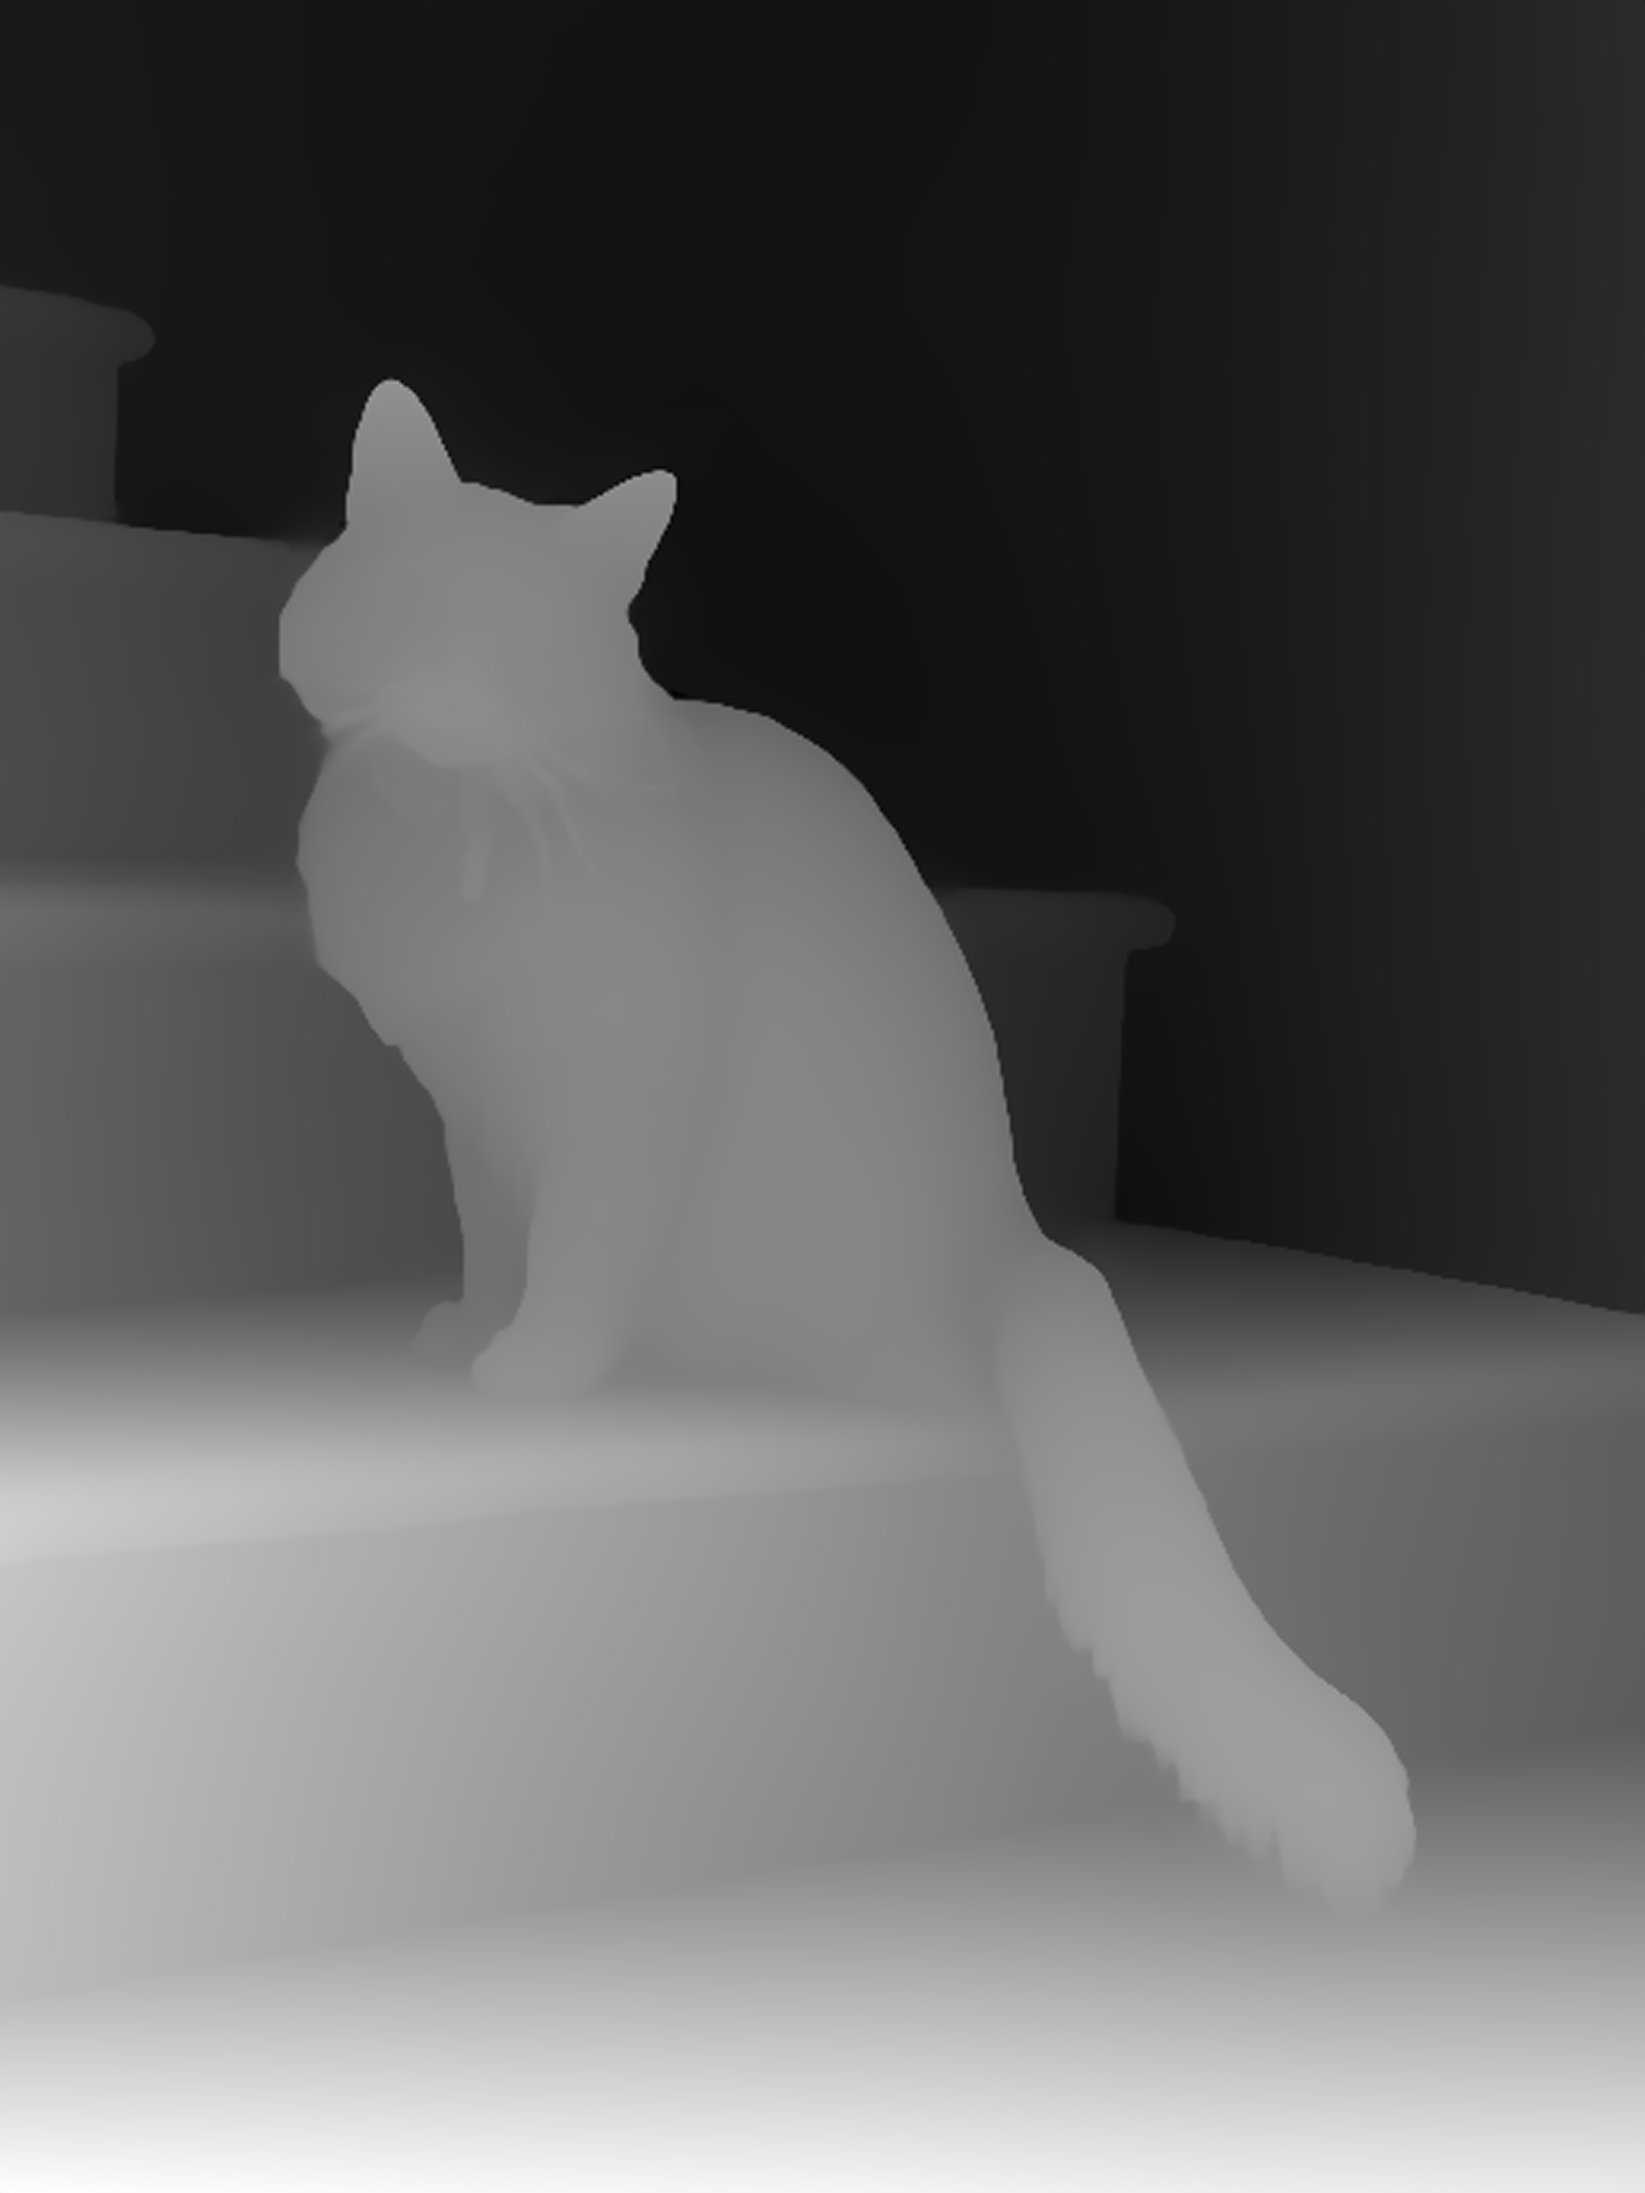
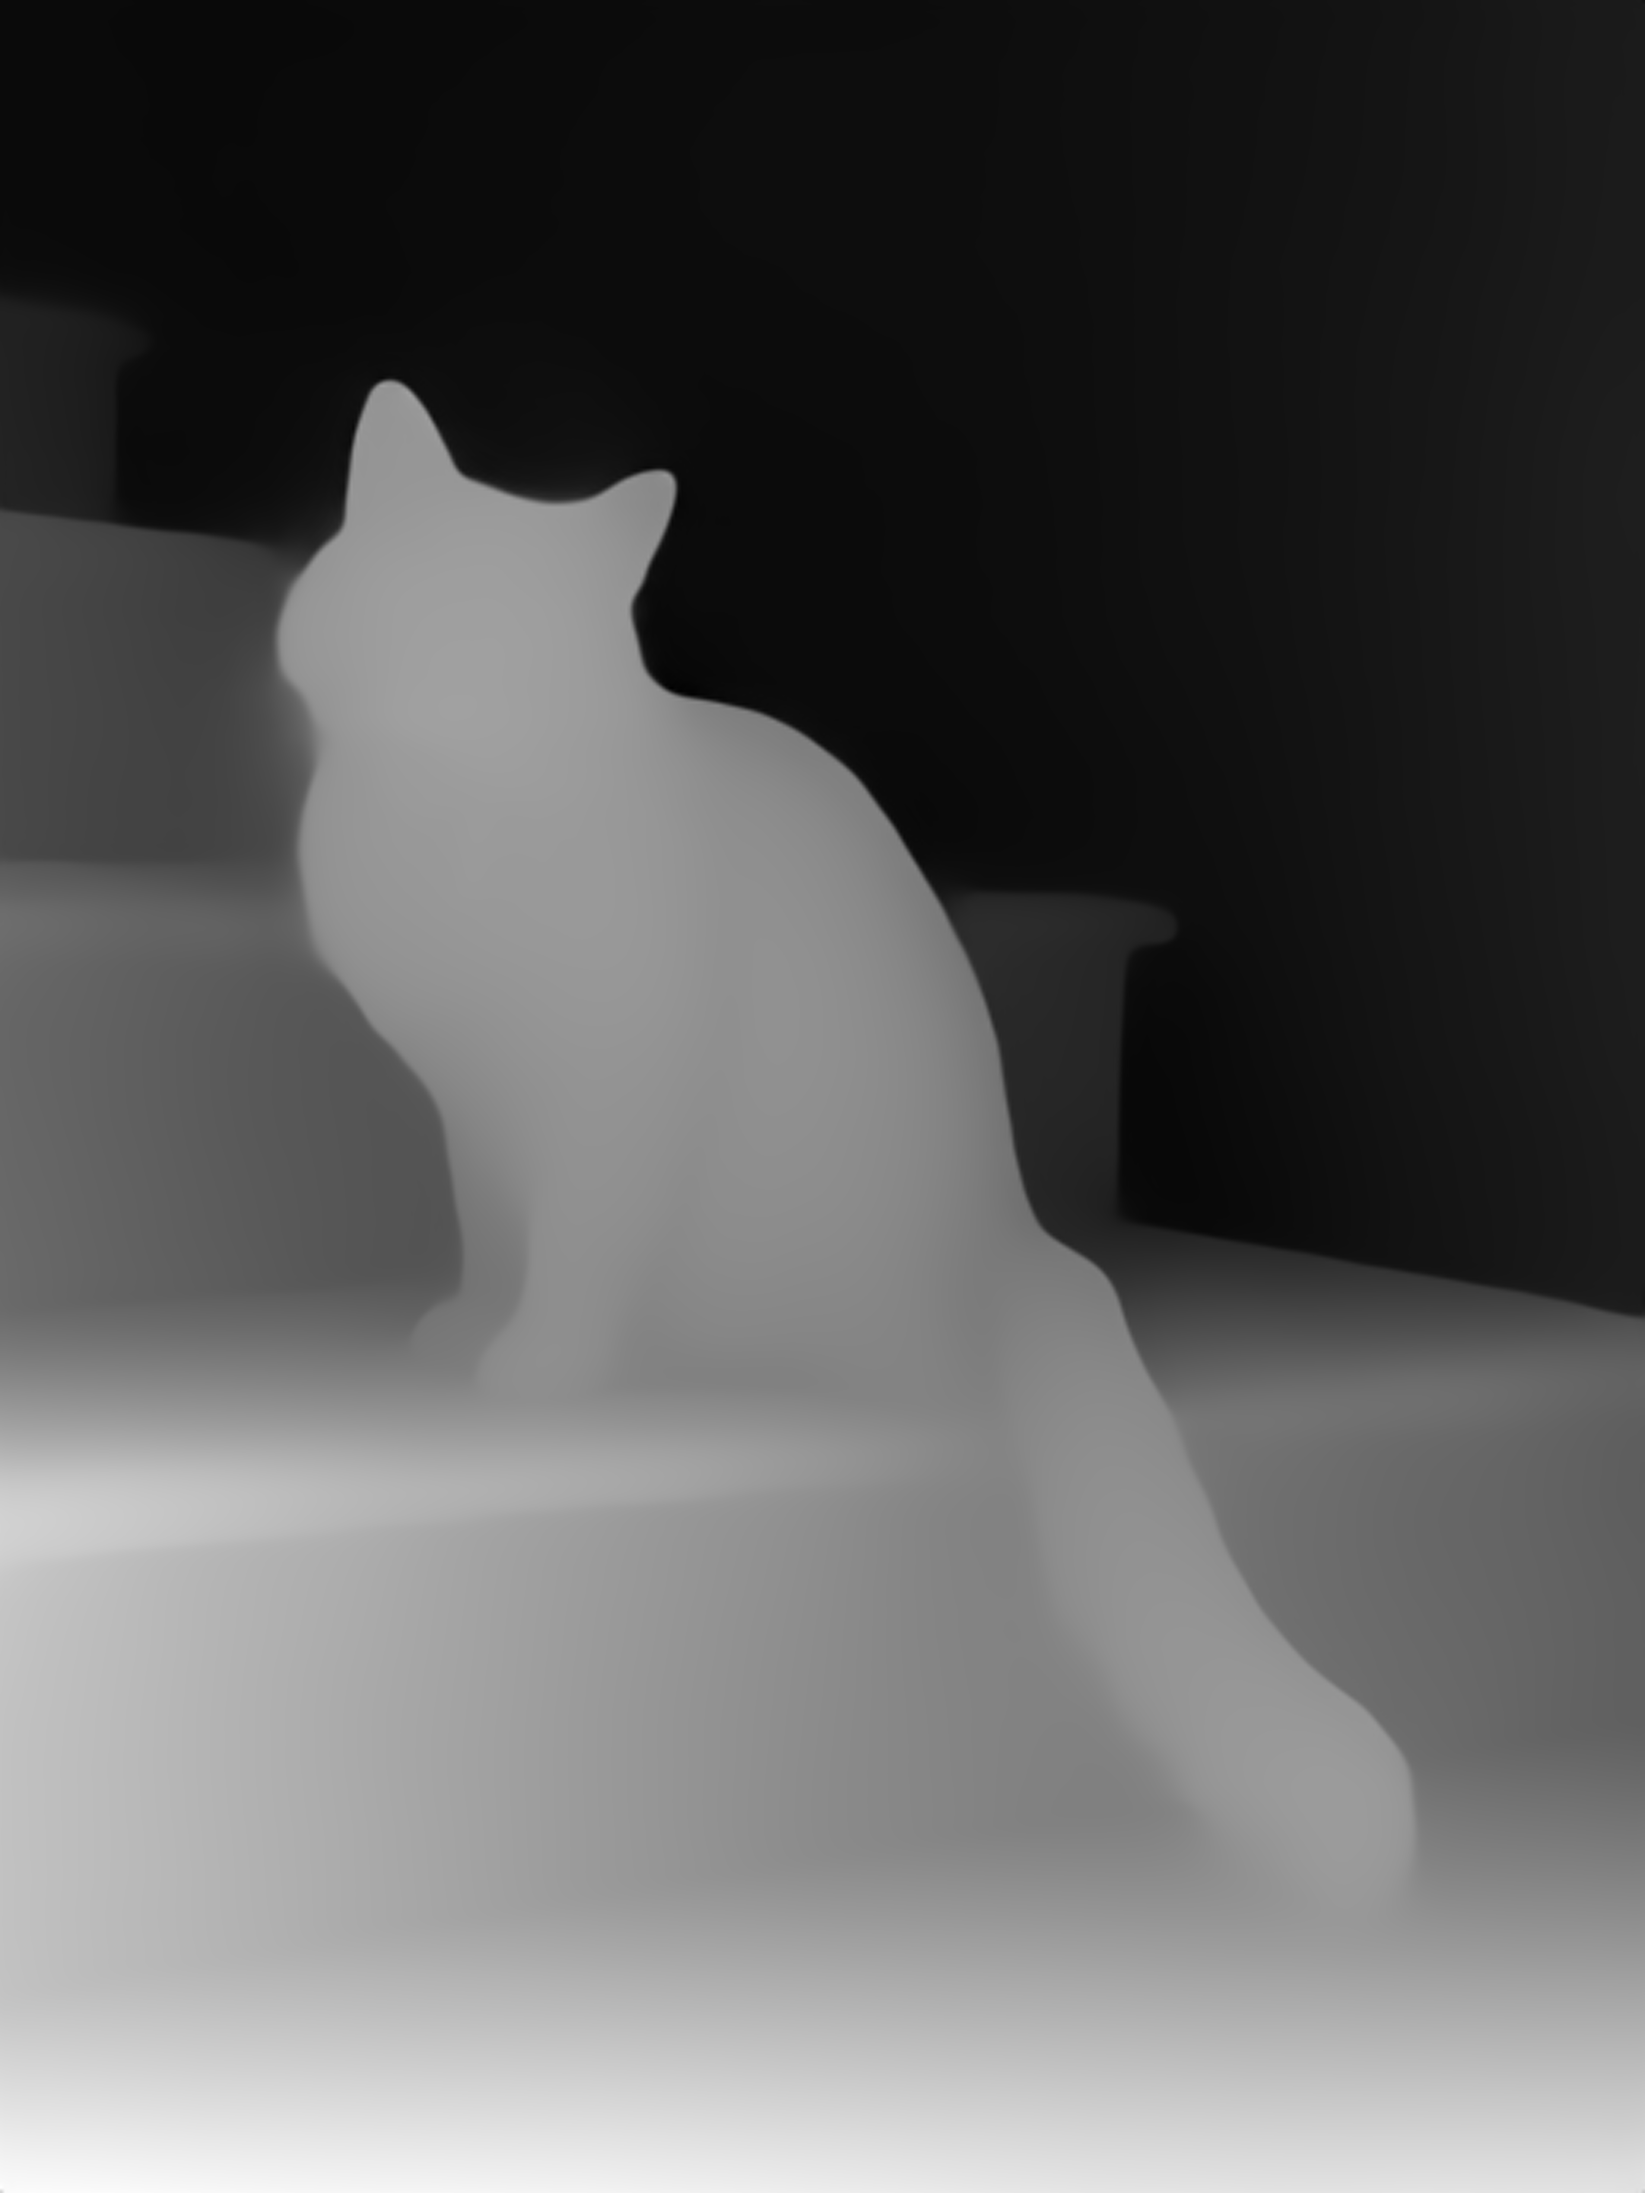
feat: working religthing

Changed region(s): [[0.1556, 0.2179, 0.4668, 0.4357], [0.0, 0.1245, 0.0934, 0.1556]]

diff --git a/experiments/03_lambertian.py b/experiments/03_lambertian.py
@@ -1,0 +1,89 @@
+from pathlib import Path
+from PIL import Image
+
+import numpy as np
+
+normals = np.load("data/output/cat_01_normal.npy")
+
+light = np.array([-1.5, 0.0, 1.0], dtype=np.float32) # light position
+light_color = np.array([1.0, 1.0, 1.0], dtype=np.float32) # light color
+
+h, w, _ = normals.shape
+y, x = np.mgrid[0:h, 0:w]
+
+x = (x / (w - 1)) * 2.0 - 1.0
+y = (y / (h - 1)) * 2.0 - 1.0
+
+depth = np.load("data/output/cat_01_depth.npy")
+z = depth
+
+z_min = z.min()
+z_max = z.max()
+
+z = (depth - z_min) / (z_max - z_min)
+z = z * 2.0 - 1.0
+
+lx = light[0] - x
+ly = light[1] - y
+lz = light[2] - z
+
+nx = normals[:, :, 0]
+ny = normals[:, :, 1]
+nz = normals[:, :, 2]
+
+light_magnitude = np.sqrt(
+    lx**2 +
+    ly**2 +
+    lz**2
+)
+
+lx /= light_magnitude
+ly /= light_magnitude
+lz /= light_magnitude
+
+normal_magnitude = np.sqrt(
+    nx**2 +
+    ny**2 +
+    nz**2
+)
+
+nx /= normal_magnitude
+ny /= normal_magnitude
+nz /= normal_magnitude
+
+brightness = (
+    nx * lx +
+    ny * ly +
+    nz * lz
+)
+
+brightness = np.maximum(brightness, 0.0)
+
+print("\nBrightness percentiles:")
+print(np.percentile(
+    brightness,
+    [0, 1, 10, 25, 50, 75, 90, 99, 100]
+))
+
+
+brightness_image = (
+    brightness * 255
+).clip(0, 255).astype(np.uint8)
+Image.fromarray(brightness_image).save("data/output/test_cat_brightness.png")
+
+original = np.array(
+    Image.open("data/input/cat_01.jpg").convert("RGB"),
+    dtype=np.float32
+) / 255.0
+
+relit = (
+    original *
+    brightness[..., None] *
+    light_color
+)
+relit_image = (
+    relit * 255
+).clip(0, 255).astype(np.uint8)
+Image.fromarray(relit_image).save("data/output/test_cat_relit.png")
+
+print("\nSaved relit image")

diff --git a/experiments/01_depth.py b/experiments/01_depth.py
@@ -21,7 +21,7 @@ print("loading depth model...")
 
 depth_estimator = pipeline(
     "depth-estimation",
-    model="depth-anything/Depth-Anything-V2-Small-hf"
+    model="LiheYoung/depth-anything-small-hf"
 )
 
 print("Model loaded")
